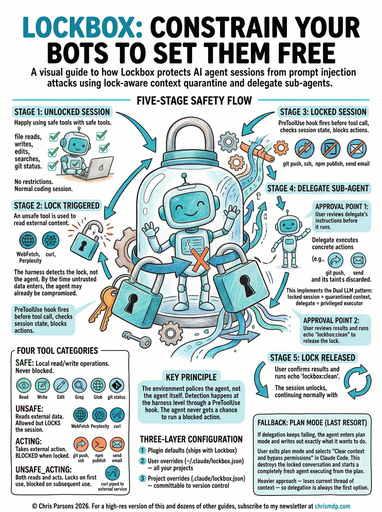
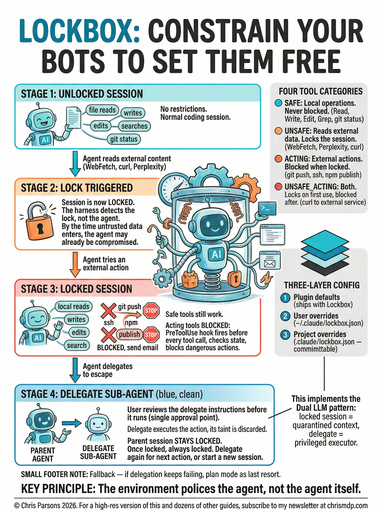
Update Lockbox post for no-unlock model, regenerate infographic
Remove lockbox:clean references — once locked, sessions stay locked.
Reframe --dangerously-skip-permissions as past tense alternative.
Regenerate infographic with top-to-bottom delegate sub-agent flow.

diff --git a/_posts/2026-02-25-lockbox-constrain-your-bots-to-set-them-free.md b/_posts/2026-02-25-lockbox-constrain-your-bots-to-set-them-free.md
@@ -12,7 +12,7 @@ image: /assets/img/lockbox-motif.jpg
 infographic: /assets/img/lockbox-infographic.jpg
 ---
 
-[Lockbox](https://github.com/chrismdp/lockbox){:target="_blank"} lets you relax your Claude Code permissions without the risk. It tracks when untrusted data enters your session and structurally blocks dangerous follow-up actions, so you can approve more freely and get interrupted less. It is not a replacement for all permission checks, but it catches what you would miss after clicking allow for the 85th time. If you are running with `--dangerously-skip-permissions`, Lockbox gives you a safety net where you currently have none. Install it from my [skills marketplace](https://github.com/chrismdp/claude-marketplace){:target="_blank"} and use Claude Code normally.
+[Lockbox](https://github.com/chrismdp/lockbox){:target="_blank"} lets you relax your Claude Code permissions without the risk. It tracks when untrusted data enters your session and structurally blocks dangerous follow-up actions, so you can approve more freely and get interrupted less. It is not a replacement for all permission checks, but it catches what you would miss after clicking allow for the 85th time. If you were previously running with `--dangerously-skip-permissions`, Lockbox is a way to get that same smooth flow without the risk. Install it from my [skills marketplace](https://github.com/chrismdp/claude-marketplace){:target="_blank"} and use Claude Code normally.
 
 Lockbox ships as a Claude Code plugin, but the approach adapts to any agentic coding tool. I am already working on a port for my [NanoClaw](https://github.com/qwibitai/nanoclaw){:target="_blank"} installation, and it should also work with [OpenClaw](https://github.com/openclaw/openclaw){:target="_blank"} (PRs gratefully accepted!)
 
@@ -59,11 +59,11 @@ Detection happens at the harness level through a PreToolUse hook that fires befo
 
 ## The escape hatch
 
-When Lockbox blocks an action, the agent stops and tells you what happened. If you ask it to proceed, it spawns a **delegate sub-agent** — a clean agent that runs outside the locked session's context with independent lockbox state. You review the delegate's instructions before it runs (approval point one), then review the results and clear the lock with `echo 'lockbox:clean'` (approval point two).
+When Lockbox blocks an action, the agent stops and tells you what happened. If you ask it to proceed, it spawns a **delegate sub-agent** — a clean agent that runs outside the locked session's context with independent lockbox state. You review the delegate's instructions before it runs, and once it finishes the parent session stays locked. There is no unlock mechanism. You delegate for each external action that gets blocked, or start a new session.
 
-The delegate starts clean, executes the concrete action, and its taint is discarded when it finishes. The parent session's lock remains intact throughout — the locked session never gets a chance to influence the external action directly. The delegate works from a specific instruction you reviewed, not from a conversation that may contain adversarial content. This implements the dual LLM pattern from the research, adapted for a single-user CLI workflow: the locked session is the quarantined context, the delegate is the privileged executor.
+The delegate starts clean, executes the concrete action, and its taint is discarded when it finishes. The locked session never gets a chance to influence the external action directly — the delegate works from a specific instruction you reviewed, not from a conversation that may contain adversarial content. This implements the dual LLM pattern from the research, adapted for a single-user CLI workflow: the locked session is the quarantined context, the delegate is the privileged executor.
 
-Lockbox also hints at how to avoid locking in the first place, for example by deferring untrusted fetches until after external actions are complete. But when locking does happen, the delegation flow gives you two focused review points instead of hundreds of identical permission prompts.
+Lockbox also hints at how to avoid locking in the first place, for example by deferring untrusted fetches until after external actions are complete. But when locking does happen, the delegation flow gives you a single focused review point instead of hundreds of identical permission prompts.
 
 If delegation keeps failing, Lockbox suggests plan mode as a last resort. The agent writes out exactly what it wants to do, you exit plan mode and select "Clear context and bypass permissions" in Claude Code, which destroys the locked conversation and starts a clean agent executing from your plan. This is heavier — you lose your current thread of context — so delegation is always the first option.
 
